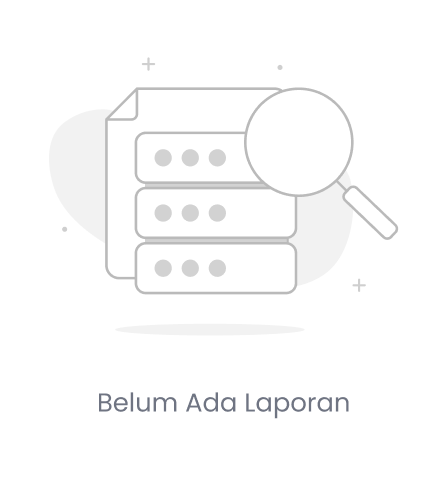
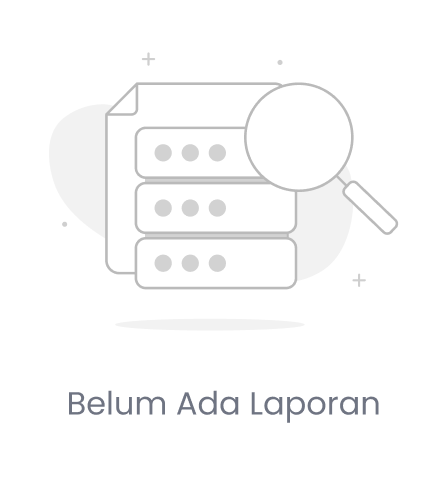
add tabel data dashboard dan ganti ilustrasi belum ada laporan

diff --git a/src/components/Welcome.jsx b/src/components/Welcome.jsx
@@ -1,32 +1,225 @@
-import React from 'react'
+import React, { useState } from 'react';
 import EmptyState from '../assets/images/EmptyState.png'
 
 const Dashboard = () => {
+        const [data, setData] = useState({
+        reimbursements: [
+            // Contoh data reimbursement
+            { id: 'RBS-BBM-01', jenis: 'BBM', tanggal: '10-Okt-2024', jumlah: 'Rp.123.000', status: 'Disetujui' },
+            { id: 'RBS-MED-02', jenis: 'Medical', tanggal: '10-Okt-2024', jumlah: 'Rp.123.000', status: 'Ditolak' },
+        ],
+        lpjBs: [
+            // { id: 'LPJ-01', jenis: 'BBM', noBs: 'BS0001', tanggal: '10-Okt-2024', jumlah: 'Rp.123.000', status: 'Diproses' },
+        ] 
+    });
+
+    // State untuk mengelola modal
+    const [showModal, setShowModal] = useState(false);
+    const [selectedReport, setSelectedReport] = useState(null);
+    const [cancelReason, setCancelReason] = useState('');
+
+    // Fungsi untuk membuka modal dan menyimpan laporan yang akan dibatalkan
+    const handleCancel = (report) => {
+        setSelectedReport(report);
+        setShowModal(true);
+    };
+
+    // Fungsi untuk menutup modal
+    const handleCloseModal = () => {
+        setShowModal(false);
+        setCancelReason('');
+        setSelectedReport(null);
+    };
+
+    // Fungsi untuk mengirim alasan pembatalan
+    const handleSubmitCancel = () => {
+        console.log(`Alasan pembatalan laporan ${selectedReport.id}: ${cancelReason}`);
+        // Logika untuk membatalkan laporan dapat ditambahkan di sini
+        handleCloseModal();
+    };
+
+
     return (
         <div className="container mx-auto py-8">
             <div className="w-full">
-                <h2 className="text-xl font-semibold mb-4">Welcome, {}</h2>
+                <h2 className="text-xl font-medium mb-4">
+                    Welcome, <span className='font-bold'>Andi Ichwan</span>
+                </h2>
 
-                <div className="bg-white p-6 rounded-lg mb-6 shadow-sm">
-                    <h3 className="text-xl font-medium mb-4">Reimbursement Terakhir</h3>
-                    <div className="flex justify-center">
-                        <figure className="w-44 h-44">
-                            <img src={EmptyState} alt="reimbursement icon" className="w-full h-full object-contain" />
-                        </figure>
+                {/* Reimbursement Section */}
+                {data.reimbursements.length === 0 ? (
+                    // Jika belum ada data reimbursement kosong
+                    <div className="bg-white p-6 rounded-lg mb-6 shadow-sm">
+                        <h3 className="text-xl font-medium mb-4">Reimbursement Terakhir</h3>
+                        <div className="flex justify-center">
+                            <figure className="w-44 h-44">
+                                <img src={EmptyState} alt="reimbursement icon" className="w-full h-full object-contain" />
+                            </figure>
+                        </div>
                     </div>
-                </div>
+                ) : (
+                    // Jika ada data reimbursement
+                    <div className="bg-white p-6 rounded-lg mb-6 shadow-sm">
+                        <h3 className="text-xl font-medium mb-4">Reimbursement Terakhir</h3>
+                        <table className="min-w-full bg-white border rounded-lg text-sm">
+                            <thead>
+                                <tr className="bg-gray-100 text-left">
+                                    <th className="px-4 py-2 border">ID</th>
+                                    <th className="px-4 py-2 border">Jenis Reimbursement</th>
+                                    <th className="px-4 py-2 border">Tanggal Pengajuan</th>
+                                    <th className="px-4 py-2 border">Jumlah</th>
+                                    <th className="py-2 border text-center">Status</th>
+                                    <th className="py-2 border text-center">Aksi</th>
+                                </tr>
+                            </thead>
+                            <tbody>
+                                {data.reimbursements.map((item, index) => (
+                                    <tr key={index}>
+                                        <td className="px-4 py-2 border">{item.id}</td>
+                                        <td className="px-4 py-2 border">{item.jenis}</td>
+                                        <td className="px-4 py-2 border">{item.tanggal}</td>
+                                        <td className="px-4 py-2 border">{item.jumlah}</td>
+                                        <td className="py-2 border text-center">
+                                            <span className={`px-4 py-1 rounded-full text-xs font-medium ${item.status === 'Disetujui' ? 'bg-green-200 text-green-800 border-[1px] border-green-600' : item.status === 'Diproses' ? 'bg-yellow-200 text-yellow-800 border-[1px] border-yellow-600' : 'bg-red-200 text-red-800 border-[1px] border-red-600'}`}>
+                                                {item.status}
+                                            </span>
+                                        </td>
+                                        <td className="py-2 border text-center">
+                                            <button 
+                                                className="text-red-500 hover:text-red-700"
+                                                onClick={() => handleCancel(item)}
+                                            >
+                                                Batalkan
+                                            </button>
+                                        </td>
+                                    </tr>
+                                ))}
+                            </tbody>
+                        </table>
+                    </div>
+                )}
 
-                <div className="bg-white p-6 rounded-lg shadow-sm">
-                    <h3 className="text-xl font-medium mb-4">LPJ Bon Sementara Terakhir</h3>
-                    <div className="flex justify-center">
-                        <figure className="w-44 h-44">
-                            <img src={EmptyState} alt="lpj bon icon" className="w-full h-full object-contain" />
-                        </figure>
+                {/* Modal untuk memasukkan alasan pembatalan */}
+                {showModal && (
+                    <div className="fixed inset-0 flex items-center justify-center z-50">
+                        <div className="absolute inset-0 bg-black opacity-50"></div>
+                        <div className="bg-white rounded-lg p-6 z-10 w-full max-w-md mx-auto">
+                            <h3 className="text-lg font-bold mb-4">Batalkan Laporan {selectedReport?.id}</h3>
+                            <label className="block mb-2 text-sm font-medium text-gray-700">
+                                Alasan Pembatalan:
+                            </label>
+                            <textarea
+                                className="w-full p-2 border border-gray-300 rounded-lg focus:outline-none focus:ring-2 focus:ring-blue-500 mb-4"
+                                value={cancelReason}
+                                onChange={(e) => setCancelReason(e.target.value)}
+                            ></textarea>
+                            <div className="flex justify-end">
+                                <button
+                                    className="bg-gray-200 text-gray-600 px-4 py-2 rounded hover:bg-gray-300 hover:text-gray-700 mr-2"
+                                    onClick={handleCloseModal}
+                                >
+                                    Batal
+                                </button>
+                                <button
+                                    className="bg-red-600 text-white px-8 py-2 rounded hover:bg-red-700 hover:text-gray-200"
+                                    onClick={handleSubmitCancel}
+                                >
+                                    Kirim Alasan
+                                </button>
+                            </div>
+                        </div>
                     </div>
-                </div>
+                )}
+
+                {/* LPJ Bon Section */}
+                {data.lpjBs.length === 0 ? (
+                    // Jika belum ada data LPJ BS
+                    <div className="bg-white p-6 rounded-lg mb-6 shadow-sm">
+                        <h3 className="text-xl font-medium mb-4">LPJ Bon Sementara Terakhir</h3>
+                        <div className="flex justify-center">
+                            <figure className="w-44 h-44">
+                                <img src={EmptyState} alt="lpj bon icon" className="w-full h-full object-contain" />
+                            </figure>
+                        </div>
+                    </div>
+                ) : (
+                    // Jika ada data LPJ BS
+                    <div className="bg-white p-6 rounded-lg mb-6 shadow-sm">
+                        <h3 className="text-xl font-medium mb-4">LPJ Bon Sementara Terakhir</h3>
+                        <table className="min-w-full bg-white border rounded-lg text-sm">
+                            <thead>
+                                <tr className="bg-gray-100 text-left">
+                                    <th className="px-4 py-2 border">ID</th>
+                                    <th className="px-4 py-2 border">Jenis LPJ BS</th>
+                                    <th className="px-4 py-2 border">Nomor BS</th>
+                                    <th className="px-4 py-2 border">Tanggal BS</th>
+                                    <th className="px-4 py-2 border">Jumlah BS</th>
+                                    <th className="py-2 border text-center">Status</th>
+                                    <th className="py-2 border text-center">Aksi</th>
+                                </tr>
+                            </thead>
+                            <tbody>
+                                {data.lpjBs.map((item, index) => (
+                                    <tr key={index}>
+                                        <td className="px-4 py-2 border">{item.id}</td>
+                                        <td className="px-4 py-2 border">{item.jenis}</td>
+                                        <td className="px-4 py-2 border">{item.noBs}</td>
+                                        <td className="px-4 py-2 border">{item.tanggal}</td>
+                                        <td className="px-4 py-2 border">{item.jumlah}</td>
+                                        <td className="py-2 border text-center">
+                                            <span className={`px-4 py-1 rounded-full text-xs font-medium ${item.status === 'Disetujui' ? 'bg-green-200 text-green-800 border-[1px] border-green-600' : item.status === 'Diproses' ? 'bg-yellow-200 text-yellow-800 border-[1px] border-yellow-600' : 'bg-red-200 text-red-800 border-[1px] border-red-600'}`}>
+                                                {item.status}
+                                            </span>
+                                        </td>
+                                        <td className="py-2 border text-center">
+                                            <button 
+                                                className="text-red-500 hover:text-red-700"
+                                                onClick={() => handleCancel(item)}
+                                            >
+                                                Batalkan
+                                            </button>
+                                        </td>
+                                    </tr>
+                                ))}
+                            </tbody>
+                        </table>
+                    </div>
+                )}
+
+                {/* Modal untuk memasukkan alasan pembatalan */}
+                {showModal && (
+                    <div className="fixed inset-0 flex items-center justify-center z-50">
+                        <div className="absolute inset-0 bg-black opacity-50"></div>
+                        <div className="bg-white rounded-lg p-6 z-10 w-full max-w-md mx-auto">
+                            <h3 className="text-lg font-bold mb-4">Batalkan Laporan {selectedReport?.id}</h3>
+                            <label className="block mb-2 text-sm font-medium text-gray-700">
+                                Alasan Pembatalan:
+                            </label>
+                            <textarea
+                                className="w-full p-2 border border-gray-300 rounded-lg focus:outline-none focus:ring-2 focus:ring-blue-500 mb-4"
+                                value={cancelReason}
+                                onChange={(e) => setCancelReason(e.target.value)}
+                            ></textarea>
+                            <div className="flex justify-end">
+                                <button
+                                    className="bg-gray-200 text-gray-600 px-4 py-2 rounded hover:bg-gray-300 hover:text-gray-700 mr-2"
+                                    onClick={handleCloseModal}
+                                >
+                                    Batal
+                                </button>
+                                <button
+                                    className="bg-red-600 text-white px-8 py-2 rounded hover:bg-red-700 hover:text-gray-200"
+                                    onClick={handleSubmitCancel}
+                                >
+                                    Kirim Alasan
+                                </button>
+                            </div>
+                        </div>
+                    </div>
+                )}
             </div>
         </div>
     )
 }
 
-export default Dashboard
+export default Dashboard;
